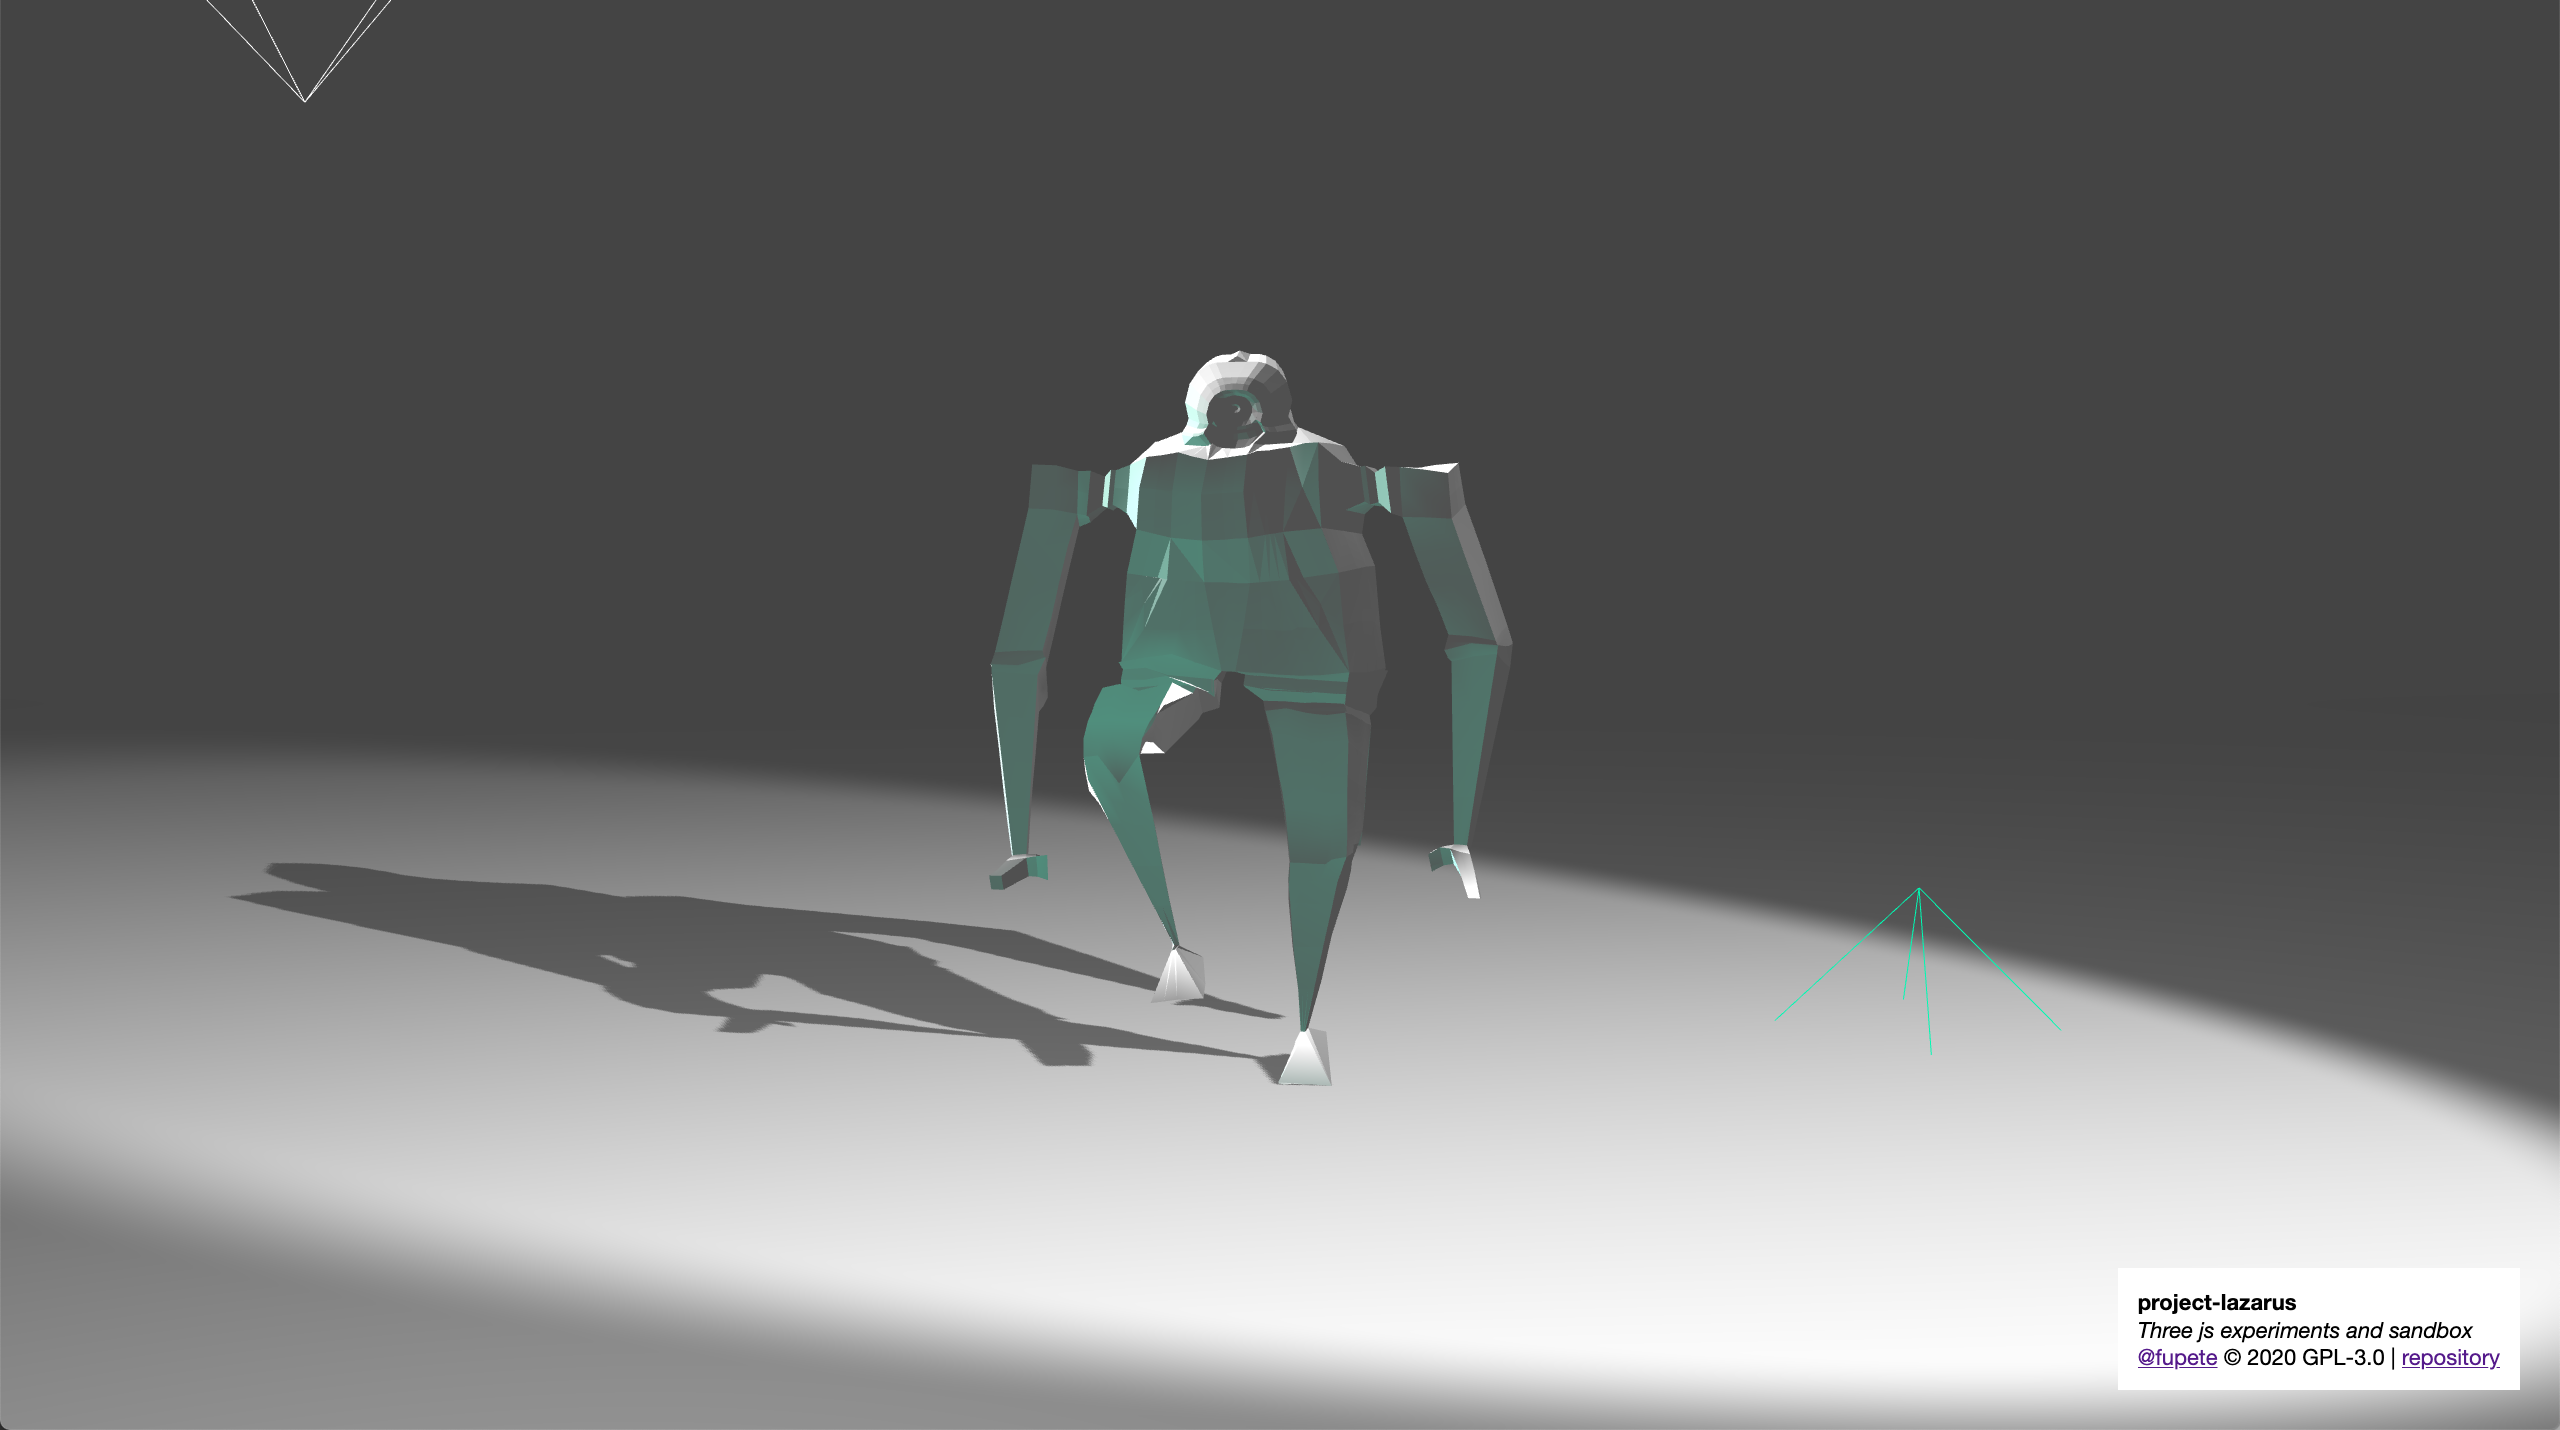
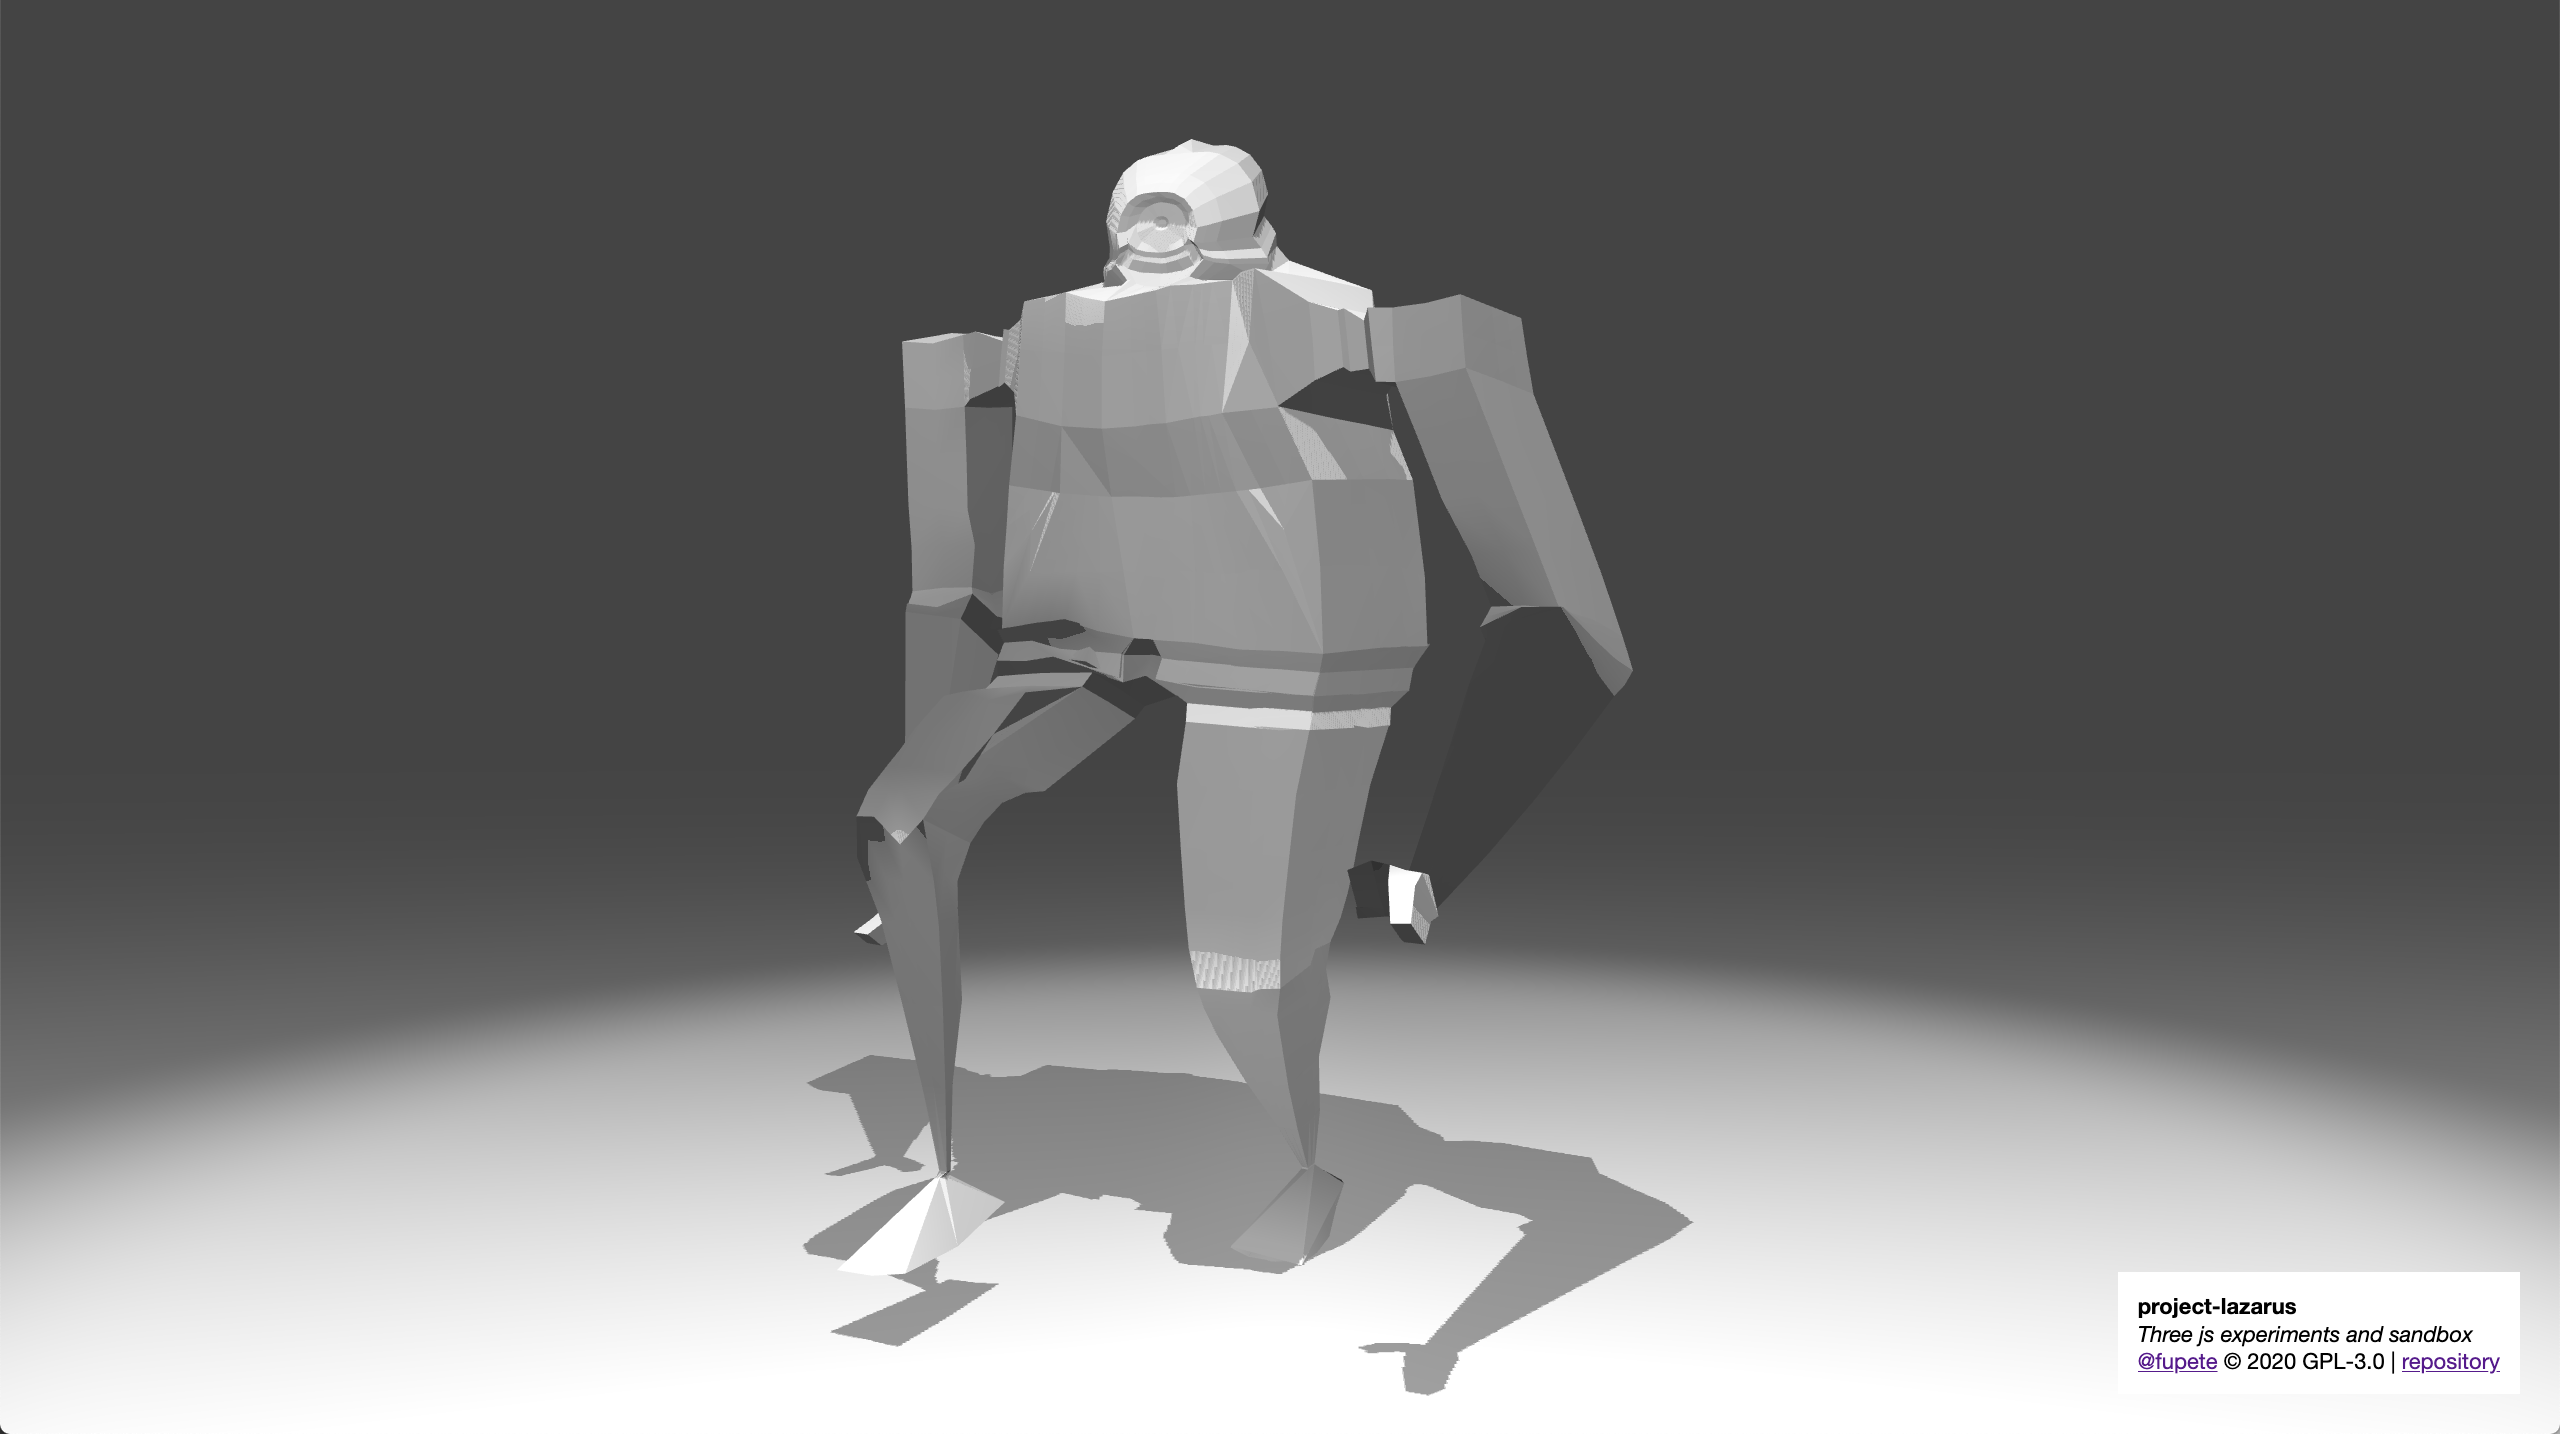
Minor adjustments on lights and surfaces... better...

diff --git a/project-lazarus/sketch.js b/project-lazarus/sketch.js
@@ -19,12 +19,12 @@
 
 // Vars
 let near = 1, far = 1000, floor = 0
-let shadowMapWidth = 1024, shadowMapHeight = 1024
+let shadowMapWidth = 2048, shadowMapHeight = 2048
 
 // Scene
 const scene = new THREE.Scene()
 scene.background = new THREE.Color(0x444444)
-scene.fog = new THREE.Fog( scene.background, 0, 50)
+scene.fog = new THREE.FogExp2( scene.background, .1)
 
 // Camera
 let aspect = window.innerWidth / window.innerHeight
@@ -38,7 +38,7 @@ renderer.toneMappingExposure = 1.2;
 renderer.setPixelRatio(window.devicePixelRatio)
 renderer.setSize(window.innerWidth, window.innerHeight)
 renderer.shadowMap.enabled = true; // < Shadows enabled
-renderer.shadowMap.Type = THREE.PCFSoftShadowMap // BasicShadowMap | PCFShadowMap | PCFSoftShadowMap | THREE.VSMShadowMap
+renderer.shadowMap.Type = THREE.BasicShadowMap // BasicShadowMap | PCFShadowMap | PCFSoftShadowMap | THREE.VSMShadowMap
 // renderer.autoClear = false
 document.body.appendChild(renderer.domElement)
 
@@ -65,43 +65,27 @@ let lightAmb = new THREE.AmbientLight( 0x444444 )
 scene.add(lightAmb)
 
 // Directional
-let lightS = new THREE.SpotLight( 0xffffff, 1, 0, Math.PI / 9, 0.2 )
-lightS.position.set( 10, 7, 7 )
-lightS.target.position.set(0,0,10)
-lightS.castShadow = true
-lightS.shadow.camera.near	= 1
-lightS.shadow.camera.far = 50
-// lightS.shadow.bias = -0.001
-lightS.shadow.mapSize.width = shadowMapWidth
-lightS.shadow.mapSize.height = shadowMapHeight
+let lightS = new THREE.SpotLight( 0xffffff, .7, 0, Math.PI / 10, .4 )
+lightS.position.set( 0, 14, -7 )
 scene.add(lightS)
 // let dlh = new THREE.DirectionalLightHelper( lightS )
 // scene.add( dlh )
 
-let lightFront = new THREE.PointLight(0xffffff, .5)
-lightFront.position.set(0,0,-3)
+let lightFront = new THREE.PointLight(0xffffff, .7)
+lightFront.position.set(0,7,3)
+lightFront.castShadow = true
+lightFront.shadow.bias = -0.00001
+lightFront.shadow.mapSize.width = shadowMapWidth
+lightFront.shadow.mapSize.height = shadowMapHeight
 scene.add(lightFront)
-let lightFront2 = new THREE.PointLight(0x00fab3, .3)
-lightFront2.position.set(0,0,-3)
-scene.add(lightFront2)
-let dlh = new THREE.PointLightHelper( lightFront )
-scene.add( dlh )
-let dlh2 = new THREE.PointLightHelper( lightFront2 )
-scene.add( dlh2 )
 
-// // Spot
-// let lightS = new THREE.SpotLight(0xffffff, 2, 0, Math.PI / 20, 0.2)
-// lightS.position.set(0, 1900, 1800)
-// // lightS.target.position.set(0,0,100)
-// lightS.castShadow = true
-// lightS.shadow.camera.near	= 600
-// lightS.shadow.camera.far = 4000
-// lightS.shadow.bias = -0.004
-// lightS.shadow.mapSize.width = shadowMapWidth
-// lightS.shadow.mapSize.height = shadowMapHeight
-// scene.add(lightS)
-// // let slightS = new THREE.SpotLightHelper( lightS );
-// // scene.add( slightS );
+let lightFront2 = new THREE.PointLight(0xffffff, .1)
+lightFront2.position.set(0,1,-5)
+scene.add(lightFront2)
+// let dlh = new THREE.PointLightHelper( lightFront )
+// scene.add( dlh )
+// let dlh2 = new THREE.PointLightHelper( lightFront2 )
+// scene.add( dlh2 )
 
 
 
@@ -127,13 +111,15 @@ dracoLoader.setDecoderPath( 'https://cdn.jsdelivr.net/npm/three@0.115.0/examples
 loader.setDRACOLoader( dracoLoader )
 
 let lazarus, mixer, clip1, action1
-const lazarusMate = new THREE.MeshPhongMaterial({
+const lazarusMate = new THREE.MeshStandardMaterial({
   skinning: true,
   color: 0xffffff,
   emissive: 0x000000,
+  metalness:.5,
+  shininess: 0xffffff,
   // shininess: 1,
-  side: THREE.DoubleSide,
-  // shadowSide: THREE.FrontSide,
+  side: THREE.BackSide,
+  shadowSide: THREE.DoubleSide,
   // shininess: 1
 })
 
@@ -156,7 +142,7 @@ function ( gltf ) { //XXX
       // // piece.material.roughtness = .5,
       // // piece.material.wireframe = true,
       piece.castShadow = true
-      // piece.receiveShadow = true
+      piece.receiveShadow = true
     }
   })
   mixer = new THREE.AnimationMixer(lazarus);
@@ -175,7 +161,7 @@ function ( gltf ) { //XXX
 /////////
 
 controls.target.set(0,1.5,0)
-camera.position.set( 0, floor+2, 17 )
+camera.position.set( 0, floor+2, 7 )
 
 /////////
 ///////// RENDER/ANIMATION LOOP
@@ -188,12 +174,7 @@ let render = function() {
   controls.update()
   let dt = clock.getDelta()
   if (mixer) mixer.update(dt);
-  lightFront.position.x = Math.cos(time) * 4
-  lightFront.position.z = Math.sin(time) * 7
-  lightFront.position.y = Math.sin(time) * 4
-  lightFront2.position.x = Math.sin(time) * 3
-  lightFront2.position.z = Math.cos(time) * 5
-  lightFront2.position.y = Math.cos(time) * 3
+  if (lazarus) lazarus.rotation.y = Math.sin(time) * .5
   renderer.render(scene, camera)
   time+=0.02
 };
